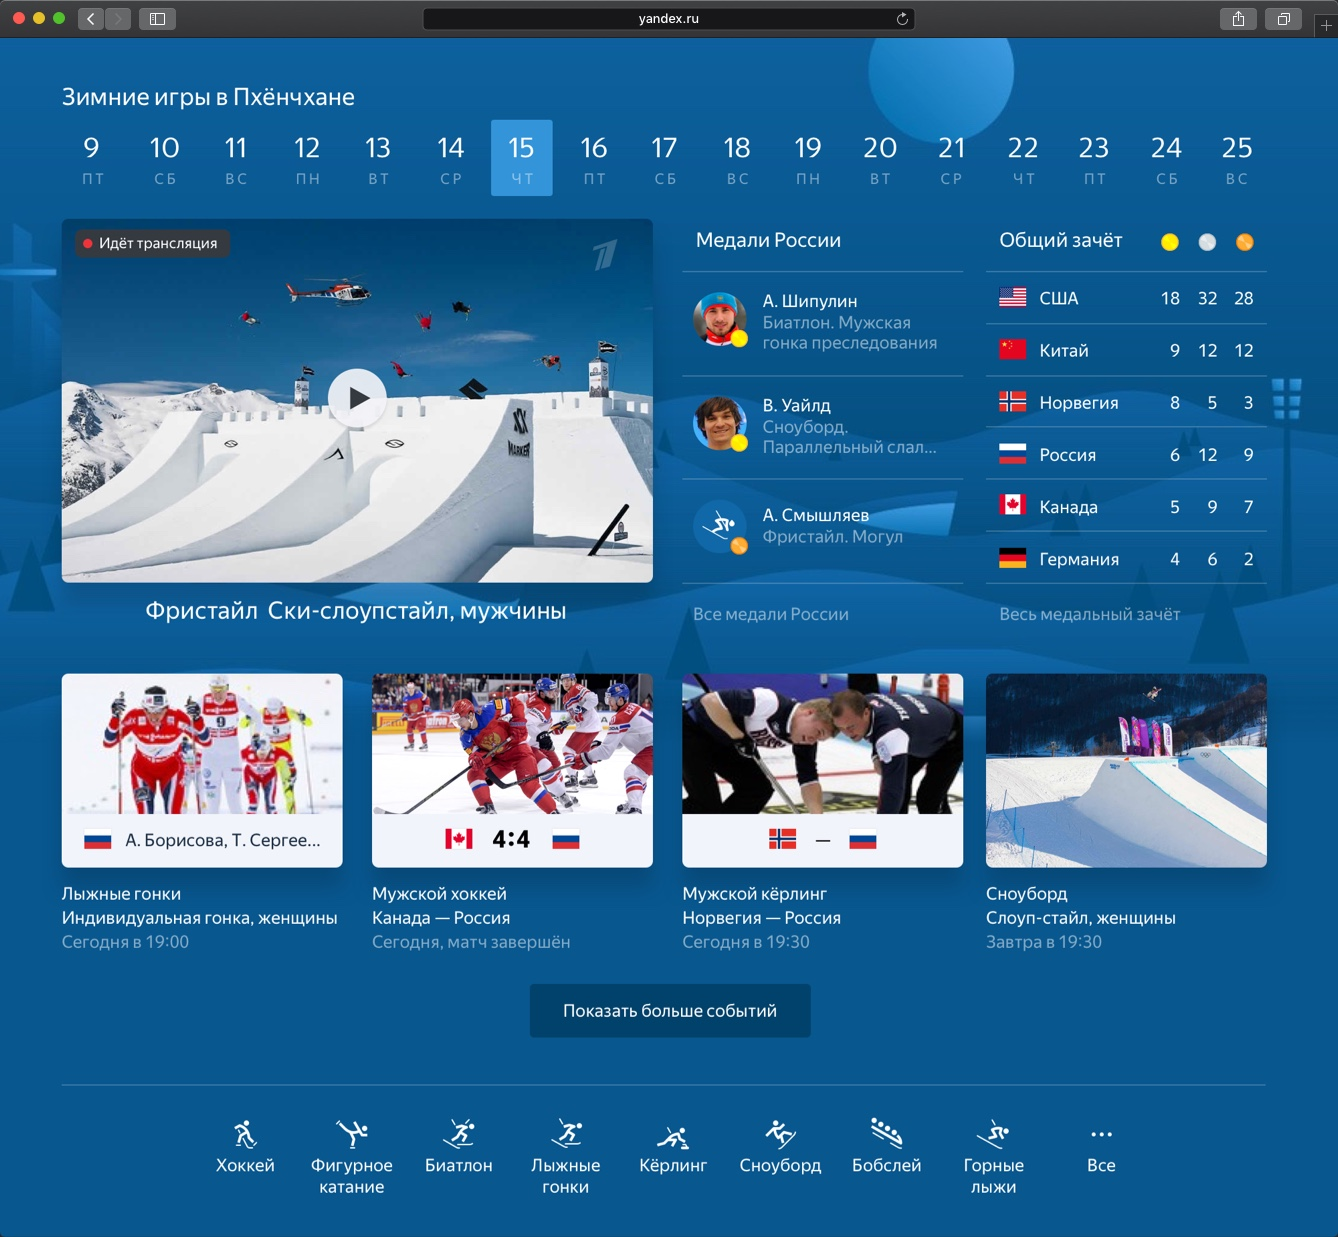
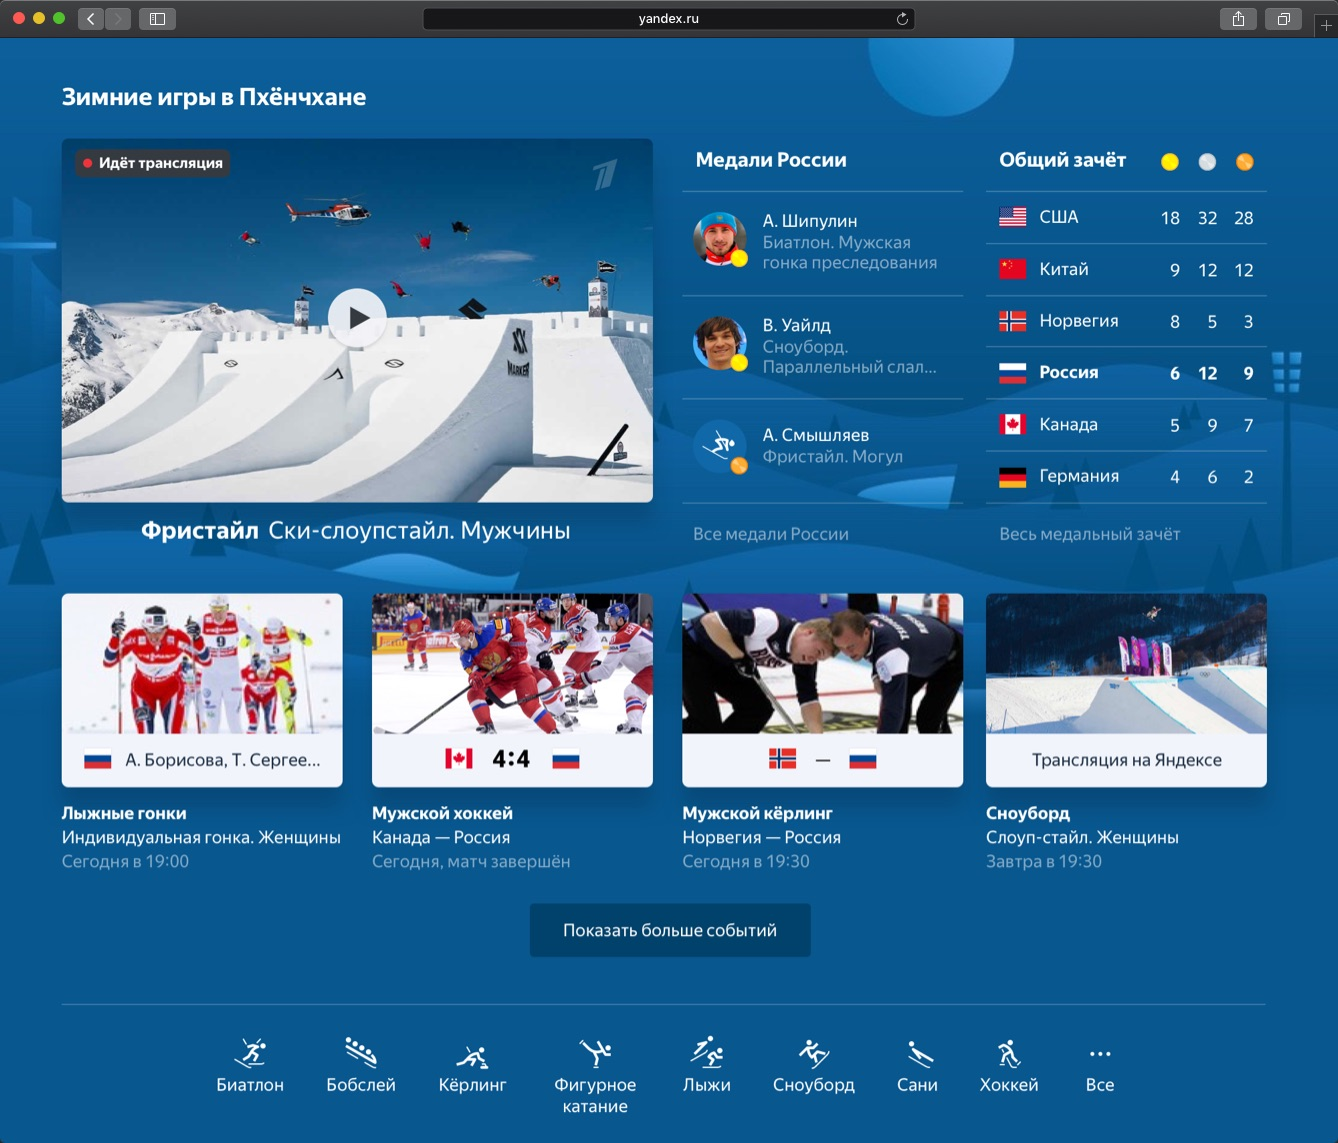
Update Yandex Sports and Azbuka texts

diff --git a/src/pages/projects/yandex-sports/index.js b/src/pages/projects/yandex-sports/index.js
@@ -21,23 +21,21 @@ export default ({ data }) => {
           page offers users other services such as news, weather, traffic, and
           so on. So it is a place where you can start your day with a cup of
           coffee. In 2018 Russia hosted the World Cup. It was a perfect time to
-          make something nice to celebrate this event instead of a formal
-          notification.
+          make something nice to celebrate this event.
         </p>
         <p>
-          At that time Yandex experimented with entertainment content to step
-          outside a single screen page. So it was a space and all the resources
-          to make something interesting within Yandex main page. We rolled out
-          the first version for the Confederation Cup. Then we made something
-          similar for the Winter Olympics. And, finally, for the World Cup. By
-          that time we had established contracts with data suppliers. The result
-          was a rich section on Yandex with live translations, highlights,
-          stats, and so on.
+          Our goals were to make good PR and bring people to the new Yandex
+          service with broadcasts. Yandex covered big sports events previously
+          but did it more formally with a text string near the news. This time I
+          made a huge (by Yandex standards) and colorful section and made an
+          accent on video broadcasts. To amuse people before the match, we added
+          stats such as squads, wins-losses, score tables. And after-match
+          stats: goals, best players, ball possession, and so on.
         </p>
       </LayoutColumn>
       <Frame label="FIFA World Cup 2018">
         <Device
-          image={filterImage(images, "yandex-sports-wc18")}
+          image={filterImage(images, "yandex-sports-wc18-full")}
           model="safari"
           margin="0"
         />
@@ -56,9 +54,26 @@ export default ({ data }) => {
           margin="0"
         />
       </Frame>
+      <LayoutColumn>
+        <p>
+          We tested this format on Winter Olympics a few months before the World
+          Cup. There's much more going on in the Olympics than in the World Cup.
+          I grouped events by day at the top of the section. Next, goes top
+          events with broadcasts and medals stats. The rest opens up if the
+          person shows her interest. The last row is a filter by the sports
+          type.
+        </p>
+      </LayoutColumn>
       <Frame label="Winter Olympics 2018">
         <Device
           image={filterImage(images, "yandex-sports-olympics")}
+          model="safari"
+          margin="0"
+        />
+      </Frame>
+      <Frame label="Next day on Winter Olympics">
+        <Device
+          image={filterImage(images, "yandex-sports-olympics-nextday")}
           model="safari"
           margin="0"
         />

diff --git a/src/pages/projects/av-selfcheckout/index.js b/src/pages/projects/av-selfcheckout/index.js
@@ -16,30 +16,41 @@ export default ({ data }) => {
       <SEO title="Azbuka Vkusa Self-checkout" />
       <LayoutColumn>
         <ArticleTitle title="Azbuka Vkusa Self-checkout" meta="2013 · Kiosk" />
-        <p>Description</p>
+        <p>
+          Azbuka Vkusa, one of the top Moscow retailers, decided to test the
+          self-checkout process in their supermarkets. So they were planning to
+          replace cashiers in the future. I have designed a user interface for
+          self-checkout kiosks. Illustrations were outsourced according to my
+          sketches. Self-checkout kiosks are now successfully working in
+          Azbuka's supermarkets.
+        </p>
+        <p>
+          UPD 2019: Azbuka rolled down self-checkout due to high maintenance
+          fees.
+        </p>
       </LayoutColumn>
-      <Frame label="1">
+      <Frame label="Welcome screen">
         <Device
           image={filterImage(images, "av-selfcheckout-welcome")}
           model="kiosk"
           margin="0"
         />
       </Frame>
-      <Frame label="2">
+      <Frame label="The customer scans goods, weights fresh produce, pays for purchases, spends his bonuses, and scans the receipt, all by himself. The main goal was to create a feeling of constant control.">
         <Device
           image={filterImage(images, "av-selfcheckout-next")}
           model="kiosk"
           margin="0"
         />
       </Frame>
-      <Frame label="3">
+      <Frame label="The device controls purchases using a scale. Therefore, it was important to clearly show that the purchase should be placed on the platform on the right.">
         <Device
           image={filterImage(images, "av-selfcheckout-put")}
           model="kiosk"
           margin="0"
         />
       </Frame>
-      <Frame label="4">
+      <Frame label="Thanks for the purchase!">
         <Device
           image={filterImage(images, "av-selfcheckout-bye")}
           model="kiosk"
